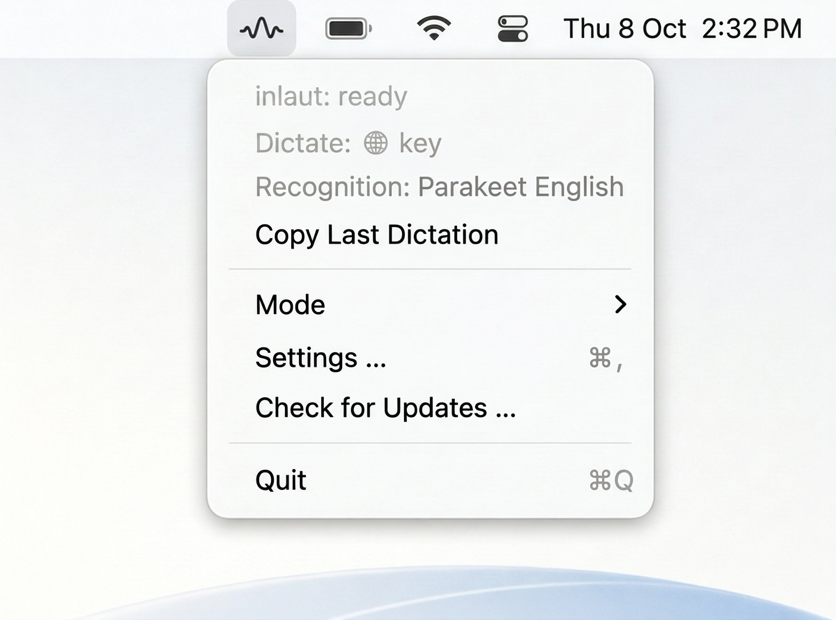
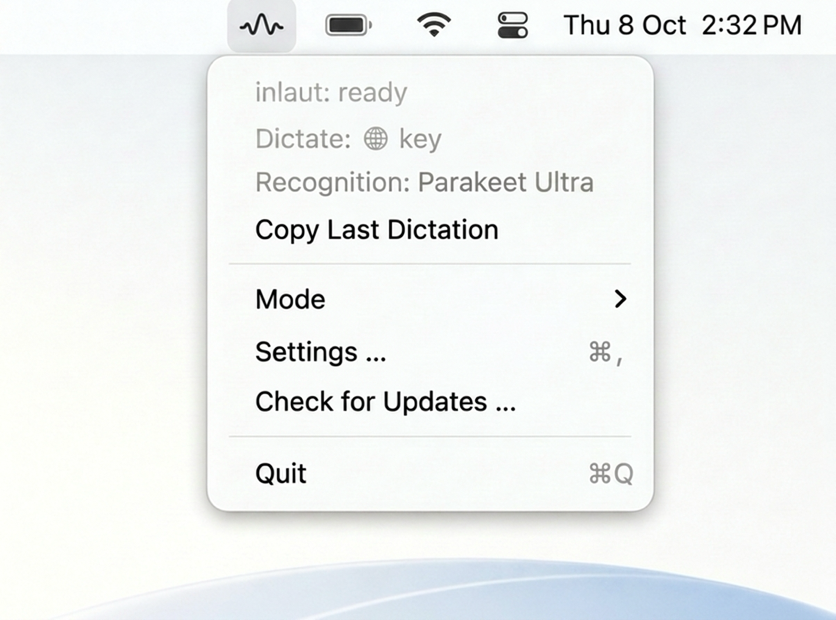
Describe Parakeet Ultra and 0.3.0 on the website
The site still described a German-tuned model plus a separate English
one, sizes of 660–670 MB and a download on every language change. With
0.3.0 there is one model of ~630 MB on the Neural Engine. The settings
screenshots are fresh renders and the menu illustrations name the new
model; the privacy texts no longer mention a download when switching
languages.

Deploy only once the 0.3.0 downloads exist.

diff --git a/site/public/index.html b/site/public/index.html
@@ -40,17 +40,17 @@
         "applicationCategory": "UtilitiesApplication",
         "applicationSubCategory": "Spracherkennung, Diktat",
         "operatingSystem": "macOS 26 oder neuer (Apple Silicon)",
-        "softwareVersion": "0.2.0",
+        "softwareVersion": "0.3.0",
         "inLanguage": ["de", "en"],
         "isAccessibleForFree": true,
         "license": "https://www.gnu.org/licenses/gpl-3.0.html",
-        "downloadUrl": "https://github.com/tobymarks/inlaut/releases/download/v0.2.0/Inlaut-0.2.0.dmg",
+        "downloadUrl": "https://github.com/tobymarks/inlaut/releases/download/v0.3.0/Inlaut-0.3.0.dmg",
         "installUrl": "https://inlaut.de/#so-gehts",
-        "fileSize": "670MB (Sprachmodell, wird beim ersten Start geladen)",
+        "fileSize": "630MB (Sprachmodell, wird beim ersten Start geladen)",
         "featureList": [
           "Diktieren per Tastenkombination oder fn-Taste (halten oder zweimal tippen für freihändiges Diktat)",
           "Spracherkennung lokal auf dem Mac, funktioniert ohne Internet",
-          "Auf Deutsch abgestimmtes Sprachmodell (Parakeet), das auch Englisch und gemischte Sätze versteht; für Englisch ein eigenes Modell; alternativ Apple-Spracherkennung",
+          "Ein Sprachmodell (Parakeet Ultra) für Deutsch, Englisch und gemischte Sätze, das sparsam auf der Neural Engine läuft; alternativ Apple-Spracherkennung",
           "Text landet direkt im aktiven Textfeld jeder App",
           "Eigene Ersetzungen für Fachbegriffe und Namen",
           "Sprachbefehle „neue Zeile“ und „neuer Absatz“ (englisch: „new line“, „new paragraph“)",
@@ -100,7 +100,7 @@
       "name": "Funktioniert das Diktieren ohne Internet?",
       "acceptedAnswer": {
         "@type": "Answer",
-        "text": "Ja. Die Spracherkennung läuft vollständig auf deinem Mac. Internet braucht inlaut nur, um beim ersten Start das Sprachmodell (rund 670 MB) zu laden und um nach Updates zu suchen."
+        "text": "Ja. Die Spracherkennung läuft vollständig auf deinem Mac. Internet braucht inlaut nur, um beim ersten Start das Sprachmodell (rund 630 MB) zu laden und um nach Updates zu suchen."
       }
     },
     {
@@ -132,7 +132,7 @@
       "name": "Wie gut versteht inlaut Deutsch und Fachbegriffe?",
       "acceptedAnswer": {
         "@type": "Answer",
-        "text": "Das Standardmodell Parakeet ist auf Deutsch abgestimmt und kommt auch mit Fachbegriffen meist gut zurecht. Wenn ein Wort trotzdem falsch erkannt wird, legst du eine eigene Ersetzung an. Danach stimmt die Schreibweise jedes Mal."
+        "text": "Das Standardmodell Parakeet Ultra versteht Deutsch und Englisch und kommt auch mit Fachbegriffen meist gut zurecht. Wenn ein Wort trotzdem falsch erkannt wird, legst du eine eigene Ersetzung an. Danach stimmt die Schreibweise jedes Mal."
       }
     },
     {
@@ -148,7 +148,7 @@
       "name": "Was ist der Unterschied zur Diktierfunktion von macOS?",
       "acceptedAnswer": {
         "@type": "Answer",
-        "text": "macOS bringt eine eigene Diktierfunktion mit. inlaut ist eine Alternative mit einem auf Deutsch abgestimmten Sprachmodell, eigenen Ersetzungen, Befehlen für Zeilen und Absätze und einer frei wählbaren Taste. Du kannst beides ausprobieren und nutzen, was besser zu dir passt."
+        "text": "macOS bringt eine eigene Diktierfunktion mit. inlaut ist eine Alternative mit einem eigenen Sprachmodell für Deutsch und Englisch, eigenen Ersetzungen, Befehlen für Zeilen und Absätze und einer frei wählbaren Taste. Du kannst beides ausprobieren und nutzen, was besser zu dir passt."
       }
     },
     {
@@ -156,7 +156,7 @@
       "name": "Welchen Mac brauche ich?",
       "acceptedAnswer": {
         "@type": "Answer",
-        "text": "Einen Mac mit Apple Silicon (M1 oder neuer) und macOS 26 oder neuer. Das Sprachmodell belegt rund 670 MB auf dem Speicher. Wer weniger Platz hat, wählt in den Einstellungen die lokale Apple-Spracherkennung."
+        "text": "Einen Mac mit Apple Silicon (M1 oder neuer) und macOS 26 oder neuer. Das Sprachmodell belegt rund 630 MB auf dem Speicher. Wer weniger Platz hat, wählt in den Einstellungen die lokale Apple-Spracherkennung."
       }
     },
     {
@@ -209,10 +209,10 @@
         <h1 id="hero-title">Deine Stimme.<br><span>Direkt als Text.</span></h1>
         <p class="lead">Ein Gedanke, eine Nachricht, eine ganze Seite. Taste halten, sprechen, loslassen. inlaut schreibt dort, wo dein Cursor steht.</p>
         <div class="actions">
-          <a class="button" href="https://github.com/tobymarks/inlaut/releases/download/v0.2.0/Inlaut-0.2.0.dmg"><svg class="apple-logo" viewBox="0 0 24 24" width="16" height="16" aria-hidden="true" focusable="false"><path d="M12.152 6.896c-.948 0-2.415-1.078-3.96-1.04-2.04.027-3.91 1.183-4.961 3.014-2.117 3.675-.546 9.103 1.519 12.09 1.013 1.454 2.208 3.09 3.792 3.039 1.52-.065 2.09-.987 3.935-.987 1.831 0 2.35.987 3.96.948 1.637-.026 2.676-1.48 3.676-2.948 1.156-1.688 1.636-3.325 1.662-3.415-.039-.013-3.182-1.221-3.22-4.857-.026-3.04 2.48-4.494 2.597-4.559-1.429-2.09-3.623-2.324-4.39-2.376-2-.156-3.675 1.09-4.61 1.09zM15.53 3.83c.843-1.012 1.4-2.427 1.245-3.83-1.207.052-2.662.805-3.532 1.818-.78.896-1.454 2.338-1.273 3.714 1.338.104 2.715-.688 3.559-1.701"/></svg>Für macOS laden <span aria-hidden="true">↓</span></a>
+          <a class="button" href="https://github.com/tobymarks/inlaut/releases/download/v0.3.0/Inlaut-0.3.0.dmg"><svg class="apple-logo" viewBox="0 0 24 24" width="16" height="16" aria-hidden="true" focusable="false"><path d="M12.152 6.896c-.948 0-2.415-1.078-3.96-1.04-2.04.027-3.91 1.183-4.961 3.014-2.117 3.675-.546 9.103 1.519 12.09 1.013 1.454 2.208 3.09 3.792 3.039 1.52-.065 2.09-.987 3.935-.987 1.831 0 2.35.987 3.96.948 1.637-.026 2.676-1.48 3.676-2.948 1.156-1.688 1.636-3.325 1.662-3.415-.039-.013-3.182-1.221-3.22-4.857-.026-3.04 2.48-4.494 2.597-4.559-1.429-2.09-3.623-2.324-4.39-2.376-2-.156-3.675 1.09-4.61 1.09zM15.53 3.83c.843-1.012 1.4-2.427 1.245-3.83-1.207.052-2.662.805-3.532 1.818-.78.896-1.454 2.338-1.273 3.714 1.338.104 2.715-.688 3.559-1.701"/></svg>Für macOS laden <span aria-hidden="true">↓</span></a>
           <a class="text-link" href="#so-gehts">So funktioniert’s <span aria-hidden="true">↓</span></a>
         </div>
-        <p class="availability">Kostenlos <span aria-hidden="true">·</span> Version 0.2.0 für Apple Silicon ab macOS 26</p>
+        <p class="availability">Kostenlos <span aria-hidden="true">·</span> Version 0.3.0 für Apple Silicon ab macOS 26</p>
       </div>
 
       <figure class="dictation-demo" aria-label="Beispiel: Aus gesprochener Sprache wird eine Notiz">
@@ -239,7 +239,7 @@
       <div class="section-heading"><h2 id="features-title">Platz für deine Gedanken.</h2><p>inlaut hält sich im Hintergrund. Und ist da, wenn du etwas zu sagen hast.</p></div>
       <div class="features">
         <article class="feature"><h3>Dein Mac hört zu. Sonst niemand.</h3><p>Die Spracherkennung läuft auf deinem Mac. Aufnahmen und Diktate werden weder als Verlauf gespeichert noch übertragen. Das Mikrofon ist nur beim Diktieren aktiv.</p></article>
-        <article class="feature"><h3>Für Deutsch gemacht. Englisch kann es auch.</h3><p>Das Parakeet-Sprachmodell ist auf Deutsch abgestimmt und versteht auch Englisch, sogar gemischt im selben Satz. Alternativ nutzt du die lokale Apple-Spracherkennung mit geringerem Speicherbedarf.</p></article>
+        <article class="feature"><h3>Deutsch, Englisch oder beides.</h3><p>Ein Sprachmodell versteht Deutsch und Englisch, sogar gemischt im selben Satz. Es läuft auf der Neural Engine deines Mac: schnell und sparsam. Alternativ nutzt du die lokale Apple-Spracherkennung.</p></article>
         <article class="feature"><h3>Da, wo du gerade schreibst.</h3><p>Mail, Notiz oder Dokument: Dein Diktat landet direkt im aktiven Textfeld. Du bleibst in der App, in der du gerade arbeitest.</p></article>
         <article class="feature"><h3>Deine Wörter. Deine Schreibweise.</h3><p>Eigene Ersetzungen korrigieren wiederkehrende Fehler. Mit „neue Zeile“ und „neuer Absatz“ gibst du deinem Text schon beim Sprechen Struktur.</p></article>
       </div>
@@ -249,15 +249,15 @@
       <div class="section-heading"><h2 id="shots-title">Leise im Hintergrund.</h2><p>Eine kleine Anzeige, solange du sprichst. Ein Menü in der Menüleiste. Und ein Fenster für deine Einstellungen.</p></div>
       <div class="shot-grid">
         <figure class="shot shot-wide"><img src="/screens/diktat.webp" width="1536" height="1024" alt="Notizen-Fenster mit diktiertem Text, darunter die inlaut-Anzeige „Hört zu“ mit Pegelbalken" loading="lazy"><figcaption>Diktieren in Notizen (Illustration)</figcaption></figure>
-        <figure class="shot"><img src="/screens/menue.webp" width="836" height="620" alt="Geöffnetes inlaut-Menü in der Menüleiste mit Status, Einstellungen und Beenden" loading="lazy"><figcaption>Das Menü in der Menüleiste (Illustration)</figcaption></figure>
-        <figure class="shot"><img src="/screens/einstellungen.webp?v=2" width="1120" height="1480" alt="inlaut-Einstellungen mit Sprache, Spracherkennung, Auslöser und Verhalten" loading="lazy"><figcaption>Einstellungen</figcaption></figure>
+        <figure class="shot"><img src="/screens/menue.webp?v=3" width="836" height="620" alt="Geöffnetes inlaut-Menü in der Menüleiste mit Status, Einstellungen und Beenden" loading="lazy"><figcaption>Das Menü in der Menüleiste (Illustration)</figcaption></figure>
+        <figure class="shot"><img src="/screens/einstellungen.webp?v=3" width="1120" height="1480" alt="inlaut-Einstellungen mit Sprache, Spracherkennung, Auslöser und Verhalten" loading="lazy"><figcaption>Einstellungen</figcaption></figure>
       </div>
     </section>
 
     <section class="wrap how" id="so-gehts" aria-labelledby="how-title">
       <div class="section-heading"><h2 id="how-title">Halten. Sprechen.<br>Loslassen.</h2><p>Eine Taste reicht. Den Rest erledigt inlaut auf deinem Mac.</p><picture class="how-symbol"><source srcset="/brand/inlaut-symbol-mint.svg" media="(prefers-color-scheme: dark)"><img src="/brand/inlaut-symbol-petrol.svg" width="112" height="70" alt="" loading="lazy"></picture></div>
       <ol class="steps">
-        <li><span class="step-number" aria-hidden="true">1</span><div><h3>Laden und einmal einrichten.</h3><p>DMG-Datei öffnen und das inlaut-Symbol auf den Ordner „Programme“ ziehen. Starte inlaut dann aus „Programme“. Die App lädt das Sprachmodell (rund 670 MB) und führt dich durch die Berechtigungen für Mikrofon und Einfügen.</p></div></li>
+        <li><span class="step-number" aria-hidden="true">1</span><div><h3>Laden und einmal einrichten.</h3><p>DMG-Datei öffnen und das inlaut-Symbol auf den Ordner „Programme“ ziehen. Starte inlaut dann aus „Programme“. Die App lädt das Sprachmodell (rund 630 MB) und führt dich durch die Berechtigungen für Mikrofon und Einfügen.</p></div></li>
         <li><span class="step-number" aria-hidden="true">2</span><div><h3>Deine Taste halten und sprechen.</h3><p>Nutze deine Tastenkombination oder richte die <kbd>🌐 fn</kbd>-Taste ein. Zweimal auf die fn-Taste tippen startet ein freihändiges Diktat.</p></div></li>
         <li><span class="step-number" aria-hidden="true">3</span><div><h3>Loslassen. Der Text steht da.</h3><p>inlaut wandelt deine Worte in Text um und fügt ihn am Cursor ein. Beim freihändigen Diktieren beendet ein weiterer Tastendruck die Aufnahme.</p></div></li>
       </ol>
@@ -331,14 +331,14 @@
       <div class="section-heading"><h2 id="faq-title">Häufige Fragen</h2><p>Was inlaut kann, was es braucht und wo deine Daten bleiben.</p></div>
       <div class="faq-list">
         <details><summary>Ist inlaut kostenlos?</summary><p>Ja. inlaut ist kostenlos, ohne Abo, ohne Konto und ohne Werbung. Der Quellcode ist Open Source unter der Lizenz GPL-3.0 und liegt auf GitHub.</p></details>
-        <details><summary>Funktioniert das Diktieren ohne Internet?</summary><p>Ja. Die Spracherkennung läuft vollständig auf deinem Mac. Internet braucht inlaut nur, um beim ersten Start das Sprachmodell (rund 670 MB) zu laden und um nach Updates zu suchen.</p></details>
+        <details><summary>Funktioniert das Diktieren ohne Internet?</summary><p>Ja. Die Spracherkennung läuft vollständig auf deinem Mac. Internet braucht inlaut nur, um beim ersten Start das Sprachmodell (rund 630 MB) zu laden und um nach Updates zu suchen.</p></details>
         <details><summary>Werden meine Aufnahmen in eine Cloud geschickt?</summary><p>Nein. Deine Stimme wird auf dem Mac in Text umgewandelt. Aufnahmen und Diktate werden weder übertragen noch als Verlauf gespeichert. Das Mikrofon ist nur aktiv, solange du diktierst.</p></details>
         <details><summary>In welchen Apps kann ich diktieren?</summary><p>In jeder App mit Textfeld: Mail, Notizen, Pages, Word, Outlook, Teams, Slack, im Browser oder im Chatfenster eines KI-Assistenten. inlaut fügt den Text dort ein, wo dein Cursor steht. Dafür braucht es einmalig die Berechtigung unter Bedienungshilfen. Ohne sie bleibt der Text in der Zwischenablage.</p></details>
         <details><summary>Wie starte ich ein Diktat?</summary><p>Halte deine Tastenkombination oder die <kbd>🌐 fn</kbd>-Taste gedrückt, sprich und lass los. Für längere Texte tippst du zweimal auf die fn-Taste und diktierst freihändig. Ein weiterer Tastendruck beendet die Aufnahme.</p></details>
-        <details><summary>Wie gut versteht inlaut Deutsch und Fachbegriffe?</summary><p>Das Standardmodell Parakeet ist auf Deutsch abgestimmt und kommt auch mit Fachbegriffen meist gut zurecht. Wenn ein Wort trotzdem falsch erkannt wird, legst du eine eigene Ersetzung an. Danach stimmt die Schreibweise jedes Mal.</p></details>
+        <details><summary>Wie gut versteht inlaut Deutsch und Fachbegriffe?</summary><p>Das Standardmodell Parakeet Ultra versteht Deutsch und Englisch und kommt auch mit Fachbegriffen meist gut zurecht. Wenn ein Wort trotzdem falsch erkannt wird, legst du eine eigene Ersetzung an. Danach stimmt die Schreibweise jedes Mal.</p></details>
         <details><summary>Kann ich Zeilenumbrüche und Absätze diktieren?</summary><p>Ja. Sag „neue Zeile“ oder „neuer Absatz“, und inlaut setzt den Umbruch an der Stelle.</p></details>
-        <details><summary>Was ist der Unterschied zur Diktierfunktion von macOS?</summary><p>macOS bringt eine eigene Diktierfunktion mit. inlaut ist eine Alternative mit einem auf Deutsch abgestimmten Sprachmodell, eigenen Ersetzungen, Befehlen für Zeilen und Absätze und einer frei wählbaren Taste. Du kannst beides ausprobieren und nutzen, was besser zu dir passt.</p></details>
-        <details><summary>Welchen Mac brauche ich?</summary><p>Einen Mac mit Apple Silicon (M1 oder neuer) und macOS 26 oder neuer. Das Sprachmodell belegt rund 670 MB auf dem Speicher. Wer weniger Platz hat, wählt in den Einstellungen die lokale Apple-Spracherkennung.</p></details>
+        <details><summary>Was ist der Unterschied zur Diktierfunktion von macOS?</summary><p>macOS bringt eine eigene Diktierfunktion mit. inlaut ist eine Alternative mit einem eigenen Sprachmodell für Deutsch und Englisch, eigenen Ersetzungen, Befehlen für Zeilen und Absätze und einer frei wählbaren Taste. Du kannst beides ausprobieren und nutzen, was besser zu dir passt.</p></details>
+        <details><summary>Welchen Mac brauche ich?</summary><p>Einen Mac mit Apple Silicon (M1 oder neuer) und macOS 26 oder neuer. Das Sprachmodell belegt rund 630 MB auf dem Speicher. Wer weniger Platz hat, wählt in den Einstellungen die lokale Apple-Spracherkennung.</p></details>
         <details><summary>Welche Sprachen unterstützt inlaut?</summary><p>Deutsch und Englisch. In den Einstellungen wählst du Deutsch, English oder Deutsch + English. Mit Deutsch + English diktierst du beide Sprachen, auch gemischt im selben Satz. Die Sprachbefehle heißen dann auch „new line“ und „new paragraph“.</p></details>
         <details><summary>Gibt es inlaut für Windows, iPhone oder iPad?</summary><p>Nein. inlaut ist eine App für die Menüleiste des Mac.</p></details>
         <details><summary>Wie installiere ich inlaut?</summary><p>Lade die DMG-Datei, öffne sie und zieh das inlaut-Symbol in den Ordner „Programme“. Beim ersten Start führt dich inlaut durch das Laden des Sprachmodells und die Berechtigungen für Mikrofon und Einfügen. Einmal am Tag sieht inlaut nach Updates und fragt, bevor es eins installiert.</p></details>
@@ -346,7 +346,7 @@
     </section>
 
     <section class="wrap project" aria-labelledby="project-title">
-      <div class="project-inner"><img src="/brand/app-icon.png" width="80" height="80" alt="" loading="lazy"><div><h2 id="project-title">Bereit zum Ausprobieren?</h2><p>inlaut ist kostenlos und Open Source. Lade die App oder schau dir den Code auf GitHub an.</p><div class="actions"><a class="button" href="https://github.com/tobymarks/inlaut/releases/download/v0.2.0/Inlaut-0.2.0.dmg"><svg class="apple-logo" viewBox="0 0 24 24" width="16" height="16" aria-hidden="true" focusable="false"><path d="M12.152 6.896c-.948 0-2.415-1.078-3.96-1.04-2.04.027-3.91 1.183-4.961 3.014-2.117 3.675-.546 9.103 1.519 12.09 1.013 1.454 2.208 3.09 3.792 3.039 1.52-.065 2.09-.987 3.935-.987 1.831 0 2.35.987 3.96.948 1.637-.026 2.676-1.48 3.676-2.948 1.156-1.688 1.636-3.325 1.662-3.415-.039-.013-3.182-1.221-3.22-4.857-.026-3.04 2.48-4.494 2.597-4.559-1.429-2.09-3.623-2.324-4.39-2.376-2-.156-3.675 1.09-4.61 1.09zM15.53 3.83c.843-1.012 1.4-2.427 1.245-3.83-1.207.052-2.662.805-3.532 1.818-.78.896-1.454 2.338-1.273 3.714 1.338.104 2.715-.688 3.559-1.701"/></svg>Für macOS laden <span aria-hidden="true">↓</span></a><a class="text-link" href="https://github.com/tobymarks/inlaut" target="_blank" rel="noopener">inlaut auf GitHub <span aria-hidden="true">↗</span></a></div></div></div>
+      <div class="project-inner"><img src="/brand/app-icon.png" width="80" height="80" alt="" loading="lazy"><div><h2 id="project-title">Bereit zum Ausprobieren?</h2><p>inlaut ist kostenlos und Open Source. Lade die App oder schau dir den Code auf GitHub an.</p><div class="actions"><a class="button" href="https://github.com/tobymarks/inlaut/releases/download/v0.3.0/Inlaut-0.3.0.dmg"><svg class="apple-logo" viewBox="0 0 24 24" width="16" height="16" aria-hidden="true" focusable="false"><path d="M12.152 6.896c-.948 0-2.415-1.078-3.96-1.04-2.04.027-3.91 1.183-4.961 3.014-2.117 3.675-.546 9.103 1.519 12.09 1.013 1.454 2.208 3.09 3.792 3.039 1.52-.065 2.09-.987 3.935-.987 1.831 0 2.35.987 3.96.948 1.637-.026 2.676-1.48 3.676-2.948 1.156-1.688 1.636-3.325 1.662-3.415-.039-.013-3.182-1.221-3.22-4.857-.026-3.04 2.48-4.494 2.597-4.559-1.429-2.09-3.623-2.324-4.39-2.376-2-.156-3.675 1.09-4.61 1.09zM15.53 3.83c.843-1.012 1.4-2.427 1.245-3.83-1.207.052-2.662.805-3.532 1.818-.78.896-1.454 2.338-1.273 3.714 1.338.104 2.715-.688 3.559-1.701"/></svg>Für macOS laden <span aria-hidden="true">↓</span></a><a class="text-link" href="https://github.com/tobymarks/inlaut" target="_blank" rel="noopener">inlaut auf GitHub <span aria-hidden="true">↗</span></a></div></div></div>
     </section>
   </main>
 

diff --git a/site/public/en/index.html b/site/public/en/index.html
@@ -49,17 +49,17 @@
         "applicationCategory": "UtilitiesApplication",
         "applicationSubCategory": "Speech recognition, dictation",
         "operatingSystem": "macOS 26 or later (Apple silicon)",
-        "softwareVersion": "0.2.0",
+        "softwareVersion": "0.3.0",
         "inLanguage": ["en", "de"],
         "isAccessibleForFree": true,
         "license": "https://www.gnu.org/licenses/gpl-3.0.html",
-        "downloadUrl": "https://github.com/tobymarks/inlaut/releases/download/v0.2.0/Inlaut-0.2.0-en.dmg",
+        "downloadUrl": "https://github.com/tobymarks/inlaut/releases/download/v0.3.0/Inlaut-0.3.0-en.dmg",
         "installUrl": "https://inlaut.de/en#how-it-works",
-        "fileSize": "660MB (speech model, downloaded on first launch)",
+        "fileSize": "630MB (speech model, downloaded on first launch)",
         "featureList": [
           "Dictate with a key combination or the fn key (hold, or double-tap for hands-free dictation)",
           "Speech recognition runs locally on the Mac and works without internet",
-          "English, German, or both mixed in one sentence (Parakeet models), alternatively Apple speech recognition",
+          "One speech model (Parakeet Ultra) for English, German and mixed sentences, running efficiently on the Neural Engine; alternatively Apple speech recognition",
           "Text goes straight into the active text field of any app",
           "Custom replacements for technical terms and names",
           "Voice commands “new line” and “new paragraph”",
@@ -110,7 +110,7 @@
       "name": "Does dictation work without internet?",
       "acceptedAnswer": {
         "@type": "Answer",
-        "text": "Yes. Speech recognition runs entirely on your Mac. inlaut only needs internet to download the speech model once on first launch (around 660 MB) and to check for updates."
+        "text": "Yes. Speech recognition runs entirely on your Mac. inlaut only needs internet to download the speech model once on first launch (around 630 MB) and to check for updates."
       }
     },
     {
@@ -150,7 +150,7 @@
       "name": "How well does inlaut understand English and technical terms?",
       "acceptedAnswer": {
         "@type": "Answer",
-        "text": "For English, inlaut uses NVIDIA’s Parakeet model, which handles technical terms well. If a word still comes out wrong, add your own replacement, and the spelling is right every time. If you speak English with a German accent, “Deutsch + English” recognized it at least as well in our tests."
+        "text": "inlaut uses the Parakeet Ultra speech model, which handles technical terms well, also with an accent. If a word still comes out wrong, add your own replacement, and the spelling is right every time."
       }
     },
     {
@@ -174,7 +174,7 @@
       "name": "Which Mac do I need?",
       "acceptedAnswer": {
         "@type": "Answer",
-        "text": "A Mac with Apple silicon (M1 or later) and macOS 26 or later. The speech model takes up around 660 MB of storage. If you are short on space, choose the local Apple speech recognition in the settings."
+        "text": "A Mac with Apple silicon (M1 or later) and macOS 26 or later. The speech model takes up around 630 MB of storage. If you are short on space, choose the local Apple speech recognition in the settings."
       }
     },
     {
@@ -219,10 +219,10 @@
         <h1 id="hero-title">Your voice.<br><span>Straight to text.</span></h1>
         <p class="lead">A thought, a message, a whole page. Hold a key, speak, let go. inlaut writes wherever your cursor is.</p>
         <div class="actions">
-          <a class="button" href="https://github.com/tobymarks/inlaut/releases/download/v0.2.0/Inlaut-0.2.0-en.dmg"><svg class="apple-logo" viewBox="0 0 24 24" width="16" height="16" aria-hidden="true" focusable="false"><path d="M12.152 6.896c-.948 0-2.415-1.078-3.96-1.04-2.04.027-3.91 1.183-4.961 3.014-2.117 3.675-.546 9.103 1.519 12.09 1.013 1.454 2.208 3.09 3.792 3.039 1.52-.065 2.09-.987 3.935-.987 1.831 0 2.35.987 3.96.948 1.637-.026 2.676-1.48 3.676-2.948 1.156-1.688 1.636-3.325 1.662-3.415-.039-.013-3.182-1.221-3.22-4.857-.026-3.04 2.48-4.494 2.597-4.559-1.429-2.09-3.623-2.324-4.39-2.376-2-.156-3.675 1.09-4.61 1.09zM15.53 3.83c.843-1.012 1.4-2.427 1.245-3.83-1.207.052-2.662.805-3.532 1.818-.78.896-1.454 2.338-1.273 3.714 1.338.104 2.715-.688 3.559-1.701"/></svg>Download for macOS <span aria-hidden="true">↓</span></a>
+          <a class="button" href="https://github.com/tobymarks/inlaut/releases/download/v0.3.0/Inlaut-0.3.0-en.dmg"><svg class="apple-logo" viewBox="0 0 24 24" width="16" height="16" aria-hidden="true" focusable="false"><path d="M12.152 6.896c-.948 0-2.415-1.078-3.96-1.04-2.04.027-3.91 1.183-4.961 3.014-2.117 3.675-.546 9.103 1.519 12.09 1.013 1.454 2.208 3.09 3.792 3.039 1.52-.065 2.09-.987 3.935-.987 1.831 0 2.35.987 3.96.948 1.637-.026 2.676-1.48 3.676-2.948 1.156-1.688 1.636-3.325 1.662-3.415-.039-.013-3.182-1.221-3.22-4.857-.026-3.04 2.48-4.494 2.597-4.559-1.429-2.09-3.623-2.324-4.39-2.376-2-.156-3.675 1.09-4.61 1.09zM15.53 3.83c.843-1.012 1.4-2.427 1.245-3.83-1.207.052-2.662.805-3.532 1.818-.78.896-1.454 2.338-1.273 3.714 1.338.104 2.715-.688 3.559-1.701"/></svg>Download for macOS <span aria-hidden="true">↓</span></a>
           <a class="text-link" href="#how-it-works">How it works <span aria-hidden="true">↓</span></a>
         </div>
-        <p class="availability">Free <span aria-hidden="true">·</span> Version 0.2.0 for Apple silicon, macOS 26 or later</p>
+        <p class="availability">Free <span aria-hidden="true">·</span> Version 0.3.0 for Apple silicon, macOS 26 or later</p>
       </div>
 
       <figure class="dictation-demo" aria-label="Example: spoken words become a note">
@@ -249,7 +249,7 @@
       <div class="section-heading"><h2 id="features-title">Room for your thoughts.</h2><p>inlaut stays in the background. And it’s there when you have something to say.</p></div>
       <div class="features">
         <article class="feature"><h3>Your Mac listens. Nobody else.</h3><p>Speech recognition runs on your Mac. Recordings and dictations are neither kept as a history nor sent anywhere. The microphone is only on while you dictate.</p></article>
-        <article class="feature"><h3>English, German, or both.</h3><p>Choose English, Deutsch or Deutsch + English. The bilingual mode even understands both languages mixed in one sentence. Alternatively, use the local Apple speech recognition, which needs less memory.</p></article>
+        <article class="feature"><h3>English, German, or both.</h3><p>One speech model understands English and German, even mixed in one sentence. It runs on your Mac’s Neural Engine: fast and light. Alternatively, use the local Apple speech recognition.</p></article>
         <article class="feature"><h3>Right where you’re writing.</h3><p>Email, note or document: your dictation lands straight in the active text field. You stay in the app you’re working in.</p></article>
         <article class="feature"><h3>Your words. Your spelling.</h3><p>Custom replacements fix recurring mistakes. Say “new line” and “new paragraph” to structure your text as you speak.</p></article>
       </div>
@@ -259,15 +259,15 @@
       <div class="section-heading"><h2 id="shots-title">Quietly in the background.</h2><p>A small indicator while you speak. A menu in the menu bar. And a window for your settings.</p></div>
       <div class="shot-grid">
         <figure class="shot shot-wide"><img src="/screens/diktat-en.webp" width="1536" height="1024" alt="Notes window with dictated text, below it the inlaut indicator “Listening” with level bars" loading="lazy"><figcaption>Dictating into Notes (illustration)</figcaption></figure>
-        <figure class="shot"><img src="/screens/menue-en.webp" width="836" height="620" alt="Open inlaut menu in the menu bar with status, settings and quit" loading="lazy"><figcaption>The menu in the menu bar (illustration)</figcaption></figure>
-        <figure class="shot"><img src="/screens/einstellungen-en.webp" width="1120" height="1480" alt="inlaut settings with language, speech recognition, trigger and behavior" loading="lazy"><figcaption>Settings</figcaption></figure>
+        <figure class="shot"><img src="/screens/menue-en.webp?v=3" width="836" height="620" alt="Open inlaut menu in the menu bar with status, settings and quit" loading="lazy"><figcaption>The menu in the menu bar (illustration)</figcaption></figure>
+        <figure class="shot"><img src="/screens/einstellungen-en.webp?v=3" width="1120" height="1480" alt="inlaut settings with language, speech recognition, trigger and behavior" loading="lazy"><figcaption>Settings</figcaption></figure>
       </div>
     </section>
 
     <section class="wrap how" id="how-it-works" aria-labelledby="how-title">
       <div class="section-heading"><h2 id="how-title">Hold. Speak.<br>Let go.</h2><p>One key is all it takes. inlaut does the rest on your Mac.</p><picture class="how-symbol"><source srcset="/brand/inlaut-symbol-mint.svg" media="(prefers-color-scheme: dark)"><img src="/brand/inlaut-symbol-petrol.svg" width="112" height="70" alt="" loading="lazy"></picture></div>
       <ol class="steps">
-        <li><span class="step-number" aria-hidden="true">1</span><div><h3>Download and set up once.</h3><p>Open the DMG file and drag the inlaut icon onto the Applications folder. Then start inlaut from Applications. The app downloads the speech model (around 660 MB) and walks you through the permissions for the microphone and pasting.</p></div></li>
+        <li><span class="step-number" aria-hidden="true">1</span><div><h3>Download and set up once.</h3><p>Open the DMG file and drag the inlaut icon onto the Applications folder. Then start inlaut from Applications. The app downloads the speech model (around 630 MB) and walks you through the permissions for the microphone and pasting.</p></div></li>
         <li><span class="step-number" aria-hidden="true">2</span><div><h3>Hold your key and speak.</h3><p>Use your key combination or set up the <kbd>🌐 fn</kbd> key. Double-tap fn to start hands-free dictation.</p></div></li>
         <li><span class="step-number" aria-hidden="true">3</span><div><h3>Let go. The text is there.</h3><p>inlaut turns your words into text and inserts it at the cursor. In hands-free mode, another key press ends the recording.</p></div></li>
       </ol>
@@ -341,22 +341,22 @@
       <div class="section-heading"><h2 id="faq-title">Frequently asked questions</h2><p>What inlaut can do, what it needs and where your data stays.</p></div>
       <div class="faq-list">
         <details><summary>Is inlaut free?</summary><p>Yes. inlaut is free, with no subscription, no account and no ads. The source code is open source under the GPL-3.0 license and lives on GitHub.</p></details>
-        <details><summary>Does dictation work without internet?</summary><p>Yes. Speech recognition runs entirely on your Mac. inlaut only needs internet to download the speech model once on first launch (around 660 MB) and to check for updates.</p></details>
+        <details><summary>Does dictation work without internet?</summary><p>Yes. Speech recognition runs entirely on your Mac. inlaut only needs internet to download the speech model once on first launch (around 630 MB) and to check for updates.</p></details>
         <details><summary>Are my recordings sent to a cloud?</summary><p>No. Your voice is turned into text on your Mac. Recordings and dictations are neither sent anywhere nor kept as a history. The microphone is only on while you dictate.</p></details>
         <details><summary>Which apps can I dictate into?</summary><p>Any app with a text field: Mail, Notes, Pages, Word, Outlook, Teams, Slack, your browser or the chat window of an AI assistant. inlaut inserts the text where your cursor is. This needs a one-time permission under Accessibility. Without it, the text stays on the clipboard.</p></details>
         <details><summary>How do I start dictating?</summary><p>Hold your key combination or the <kbd>🌐 fn</kbd> key, speak and let go. For longer texts, double-tap fn and dictate hands-free. Another key press ends the recording.</p></details>
         <details><summary>Which languages does inlaut support?</summary><p>English and German. In the settings you choose English, Deutsch or Deutsch + English. With Deutsch + English you can dictate both languages, even mixed in one sentence.</p></details>
-        <details><summary>How well does inlaut understand English and technical terms?</summary><p>For English, inlaut uses NVIDIA’s Parakeet model, which handles technical terms well. If a word still comes out wrong, add your own replacement, and the spelling is right every time. If you speak English with a German accent, “Deutsch + English” recognized it at least as well in our tests.</p></details>
+        <details><summary>How well does inlaut understand English and technical terms?</summary><p>inlaut uses the Parakeet Ultra speech model, which handles technical terms well, also with an accent. If a word still comes out wrong, add your own replacement, and the spelling is right every time.</p></details>
         <details><summary>Can I dictate line breaks and paragraphs?</summary><p>Yes. Say “new line” or “new paragraph”, and inlaut inserts the break right there.</p></details>
         <details><summary>How is this different from macOS dictation?</summary><p>macOS has its own dictation. inlaut is an alternative with its own speech model, custom replacements, commands for lines and paragraphs and a key of your choice. Try both and use whatever suits you better.</p></details>
-        <details><summary>Which Mac do I need?</summary><p>A Mac with Apple silicon (M1 or later) and macOS 26 or later. The speech model takes up around 660 MB of storage. If you are short on space, choose the local Apple speech recognition in the settings.</p></details>
+        <details><summary>Which Mac do I need?</summary><p>A Mac with Apple silicon (M1 or later) and macOS 26 or later. The speech model takes up around 630 MB of storage. If you are short on space, choose the local Apple speech recognition in the settings.</p></details>
         <details><summary>Is inlaut available for Windows, iPhone or iPad?</summary><p>No. inlaut is an app for the Mac menu bar.</p></details>
         <details><summary>How do I install inlaut?</summary><p>Download the DMG file, open it and drag the inlaut icon onto the Applications folder. On first launch, inlaut walks you through downloading the speech model and the permissions for the microphone and pasting. Once a day, inlaut checks for updates and asks before installing one.</p></details>
       </div>
     </section>
 
     <section class="wrap project" aria-labelledby="project-title">
-      <div class="project-inner"><img src="/brand/app-icon.png" width="80" height="80" alt="" loading="lazy"><div><h2 id="project-title">Ready to try it?</h2><p>inlaut is free and open source. Download the app or have a look at the code on GitHub.</p><div class="actions"><a class="button" href="https://github.com/tobymarks/inlaut/releases/download/v0.2.0/Inlaut-0.2.0-en.dmg"><svg class="apple-logo" viewBox="0 0 24 24" width="16" height="16" aria-hidden="true" focusable="false"><path d="M12.152 6.896c-.948 0-2.415-1.078-3.96-1.04-2.04.027-3.91 1.183-4.961 3.014-2.117 3.675-.546 9.103 1.519 12.09 1.013 1.454 2.208 3.09 3.792 3.039 1.52-.065 2.09-.987 3.935-.987 1.831 0 2.35.987 3.96.948 1.637-.026 2.676-1.48 3.676-2.948 1.156-1.688 1.636-3.325 1.662-3.415-.039-.013-3.182-1.221-3.22-4.857-.026-3.04 2.48-4.494 2.597-4.559-1.429-2.09-3.623-2.324-4.39-2.376-2-.156-3.675 1.09-4.61 1.09zM15.53 3.83c.843-1.012 1.4-2.427 1.245-3.83-1.207.052-2.662.805-3.532 1.818-.78.896-1.454 2.338-1.273 3.714 1.338.104 2.715-.688 3.559-1.701"/></svg>Download for macOS <span aria-hidden="true">↓</span></a><a class="text-link" href="https://github.com/tobymarks/inlaut" target="_blank" rel="noopener">inlaut on GitHub <span aria-hidden="true">↗</span></a></div></div></div>
+      <div class="project-inner"><img src="/brand/app-icon.png" width="80" height="80" alt="" loading="lazy"><div><h2 id="project-title">Ready to try it?</h2><p>inlaut is free and open source. Download the app or have a look at the code on GitHub.</p><div class="actions"><a class="button" href="https://github.com/tobymarks/inlaut/releases/download/v0.3.0/Inlaut-0.3.0-en.dmg"><svg class="apple-logo" viewBox="0 0 24 24" width="16" height="16" aria-hidden="true" focusable="false"><path d="M12.152 6.896c-.948 0-2.415-1.078-3.96-1.04-2.04.027-3.91 1.183-4.961 3.014-2.117 3.675-.546 9.103 1.519 12.09 1.013 1.454 2.208 3.09 3.792 3.039 1.52-.065 2.09-.987 3.935-.987 1.831 0 2.35.987 3.96.948 1.637-.026 2.676-1.48 3.676-2.948 1.156-1.688 1.636-3.325 1.662-3.415-.039-.013-3.182-1.221-3.22-4.857-.026-3.04 2.48-4.494 2.597-4.559-1.429-2.09-3.623-2.324-4.39-2.376-2-.156-3.675 1.09-4.61 1.09zM15.53 3.83c.843-1.012 1.4-2.427 1.245-3.83-1.207.052-2.662.805-3.532 1.818-.78.896-1.454 2.338-1.273 3.714 1.338.104 2.715-.688 3.559-1.701"/></svg>Download for macOS <span aria-hidden="true">↓</span></a><a class="text-link" href="https://github.com/tobymarks/inlaut" target="_blank" rel="noopener">inlaut on GitHub <span aria-hidden="true">↗</span></a></div></div></div>
     </section>
   </main>
 

diff --git a/site/public/datenschutz.html b/site/public/datenschutz.html
@@ -42,7 +42,7 @@
     <p>Links zu GitHub führen auf eine Website der GitHub, Inc. Dort gelten deren Datenschutzbestimmungen. Beim bloßen Besuch dieser Seite werden keine Daten an GitHub übertragen.</p>
 
     <h2>Die App inlaut</h2>
-    <p>inlaut wandelt Sprache auf deinem Mac in Text um. Aufnahmen und erkannter Text werden nicht gespeichert und nicht übertragen. Beim ersten Start und beim Wechsel der Sprache lädt die App das Sprachmodell von Hugging Face (Hugging Face, Inc., USA) herunter. Dabei sieht Hugging Face wie jeder Webserver deine IP-Adresse. Die Apple-Spracherkennung kann bei Bedarf Sprachdateien von Apple laden. Wenn die automatische Update-Prüfung eingeschaltet ist, fragt inlaut täglich den Versionsfeed auf inlaut.de ab. Dabei erhält Cloudflare technisch notwendige Verbindungsdaten wie IP-Adresse und die App-Version in der Programmkennung. Update-Pakete werden erst auf deine Anforderung von GitHub heruntergeladen; dabei erhält auch GitHub die für den Download notwendigen Verbindungsdaten. Die automatische Prüfung lässt sich in den Einstellungen abschalten. Diktate werden bei diesen Anfragen nicht übertragen; ein zusätzliches Systemprofil wird nicht gesendet.</p>
+    <p>inlaut wandelt Sprache auf deinem Mac in Text um. Aufnahmen und erkannter Text werden nicht gespeichert und nicht übertragen. Beim ersten Start lädt die App das Sprachmodell einmalig von Hugging Face (Hugging Face, Inc., USA) herunter. Dabei sieht Hugging Face wie jeder Webserver deine IP-Adresse. Die Apple-Spracherkennung kann bei Bedarf Sprachdateien von Apple laden. Wenn die automatische Update-Prüfung eingeschaltet ist, fragt inlaut täglich den Versionsfeed auf inlaut.de ab. Dabei erhält Cloudflare technisch notwendige Verbindungsdaten wie IP-Adresse und die App-Version in der Programmkennung. Update-Pakete werden erst auf deine Anforderung von GitHub heruntergeladen; dabei erhält auch GitHub die für den Download notwendigen Verbindungsdaten. Die automatische Prüfung lässt sich in den Einstellungen abschalten. Diktate werden bei diesen Anfragen nicht übertragen; ein zusätzliches Systemprofil wird nicht gesendet.</p>
 
     <h2>Deine Rechte</h2>
     <p>Du hast das Recht auf Auskunft, Berichtigung, Löschung, Einschränkung der Verarbeitung, Datenübertragbarkeit und Widerspruch (Art. 15–21 DSGVO). Außerdem kannst du dich bei einer Datenschutz-Aufsichtsbehörde beschweren, zum Beispiel bei der für deinen Wohnort zuständigen.</p>

diff --git a/site/public/en/privacy.html b/site/public/en/privacy.html
@@ -43,7 +43,7 @@
     <p>Links to GitHub lead to a website of GitHub, Inc., where its privacy policy applies. Merely visiting this page does not send any data to GitHub.</p>
 
     <h2>The inlaut app</h2>
-    <p>inlaut turns speech into text on your Mac. Recordings and recognized text are neither stored nor sent anywhere. On first launch, and when you switch languages, the app downloads the speech model from Hugging Face (Hugging Face, Inc., USA). Like any web server, Hugging Face sees your IP address. Apple speech recognition may download language files from Apple when needed. If automatic update checks are on, inlaut queries the version feed on inlaut.de once a day. Cloudflare receives technically necessary connection data such as your IP address and the app version in the user agent. Update packages are only downloaded from GitHub when you ask for them; GitHub then also receives the connection data needed for the download. Automatic checks can be turned off in the settings. No dictations are sent with these requests, and no additional system profile is sent.</p>
+    <p>inlaut turns speech into text on your Mac. Recordings and recognized text are neither stored nor sent anywhere. On first launch, the app downloads the speech model once from Hugging Face (Hugging Face, Inc., USA). Like any web server, Hugging Face sees your IP address. Apple speech recognition may download language files from Apple when needed. If automatic update checks are on, inlaut queries the version feed on inlaut.de once a day. Cloudflare receives technically necessary connection data such as your IP address and the app version in the user agent. Update packages are only downloaded from GitHub when you ask for them; GitHub then also receives the connection data needed for the download. Automatic checks can be turned off in the settings. No dictations are sent with these requests, and no additional system profile is sent.</p>
 
     <h2>Your rights</h2>
     <p>You have the right of access, rectification, erasure, restriction of processing, data portability and objection (Art. 15–21 GDPR). You can also lodge a complaint with a data protection supervisory authority, for example the one responsible for where you live.</p>
